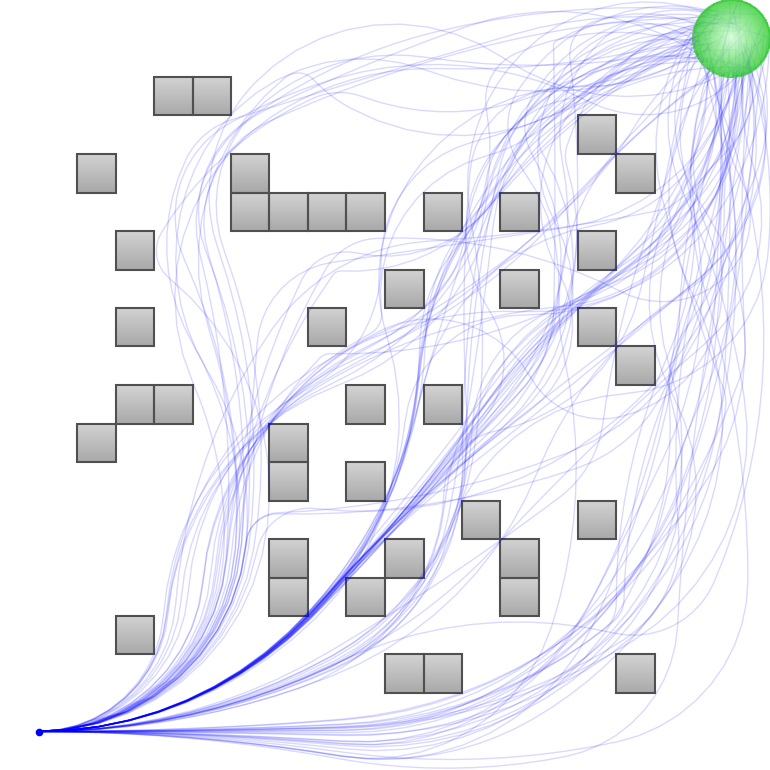
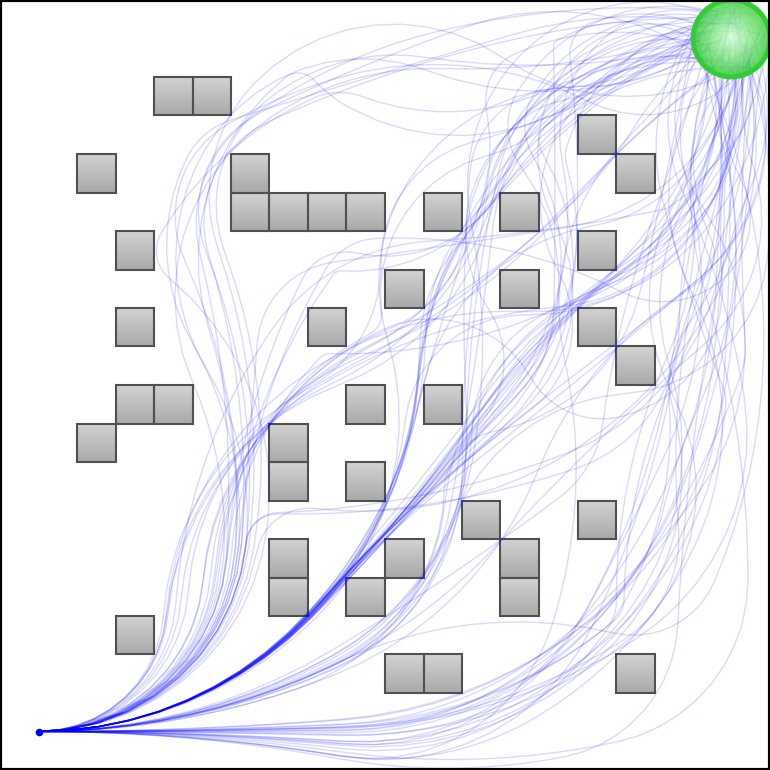
ee vis

diff --git a/view_ee.py b/view_ee.py
@@ -1,0 +1,97 @@
+import plotly.graph_objects as go
+import numpy as np
+
+def get_sphere_mesh(x0, y0, z0, radius=0.05, resolution=20):
+    """Generates vertices and triangles for a sphere at (x0, y0, z0)."""
+    phi = np.linspace(0, np.pi, resolution)
+    theta = np.linspace(0, 2 * np.pi, resolution)
+    phi, theta = np.meshgrid(phi, theta)
+    
+    x = x0 + radius * np.sin(phi) * np.cos(theta)
+    y = y0 + radius * np.sin(phi) * np.sin(theta)
+    z = z0 + radius * np.cos(phi)
+    
+    # Flatten arrays for Mesh3d
+    x, y, z = x.flatten(), y.flatten(), z.flatten()
+    
+    # Generate triangle indices
+    triangles = []
+    for i in range(resolution - 1):
+        for j in range(resolution - 1):
+            v0 = i * resolution + j
+            v1 = v0 + 1
+            v2 = (i + 1) * resolution + j
+            v3 = v2 + 1
+            triangles.append([v0, v1, v2])
+            triangles.append([v1, v3, v2])
+            
+    triangles = np.array(triangles)
+    return x, y, z, triangles[:, 0], triangles[:, 1], triangles[:, 2]
+
+def visualize_trajectory_no_obs(trajectory, output_name="./trajectory.html"):
+    """
+    trajectory: (N, 10) array
+    State order: [ee_x, ee_y, ee_dx, ee_dy, block_x, block_y, block_theta, block_dx, block_dy, block_dtheta]
+    """
+    fig = go.Figure()
+    
+    # 1. Add Floor Plane (Bounding box: -0.3 to 0.7)
+    fig.add_trace(go.Mesh3d(
+        x=[-0.3, 0.7, 0.7, -0.3], 
+        y=[-0.3, -0.3, 0.7, 0.7], 
+        z=[0, 0, 0, 0],
+        color='rgb(230, 230, 230)',
+        opacity=0.5,
+        showlegend=False
+    ))
+
+    # 2. EE (Sphere) Trajectory - Green Line
+    fig.add_trace(go.Scatter3d(
+        x=trajectory[:, 0], y=trajectory[:, 1], z=np.full_like(trajectory[:, 0], 0.05),
+        mode='lines', line=dict(color='limegreen', width=5), name='EE Trajectory'
+    ))
+
+    # 3. Block (Cube) Snapshots - Every 5 frames
+    block_size = 0.05 
+    for i in range(0, len(trajectory), 5):
+        bx, by, btheta = trajectory[i, 4], trajectory[i, 5], trajectory[i, 6]
+        
+        # Rotation Matrix
+        c, s = np.cos(btheta), np.sin(btheta)
+        R = np.array([[c, -s], [s, c]])
+        
+        # Base vertices
+        v = np.array([[-block_size, -block_size], [block_size, -block_size], 
+                      [block_size, block_size], [-block_size, block_size]])
+        
+        # Rotate and translate
+        v_rot = (R @ v.T).T + np.array([bx, by])
+        
+        # Plot cube snapshot
+        fig.add_trace(go.Mesh3d(
+            x=np.concatenate([v_rot[:, 0], v_rot[:, 0]]),
+            y=np.concatenate([v_rot[:, 1], v_rot[:, 1]]),
+            z=[0, 0, 0, 0, 0.1, 0.1, 0.1, 0.1],
+            color='red', opacity=0.15, showlegend=(i==0), name='Block Path'
+        ))
+
+    # 4. Goal Area (Marker at 0.3, 0)
+    gx, gy, gz, gi, gj, gk = get_sphere_mesh(0.3, 0.0, 0.001, radius=0.05)
+    fig.add_trace(go.Mesh3d(x=gx, y=gy, z=gz, i=gi, j=gj, k=gk, color='green', opacity=0.5, name='Goal'))
+
+    # 5. Scene Configuration
+    fig.update_layout(
+        scene=dict(
+            xaxis=dict(range=[-0.3, 0.7]),
+            yaxis=dict(range=[-0.3, 0.7]),
+            zaxis=dict(range=[0, 0.5]),
+            aspectmode='manual',
+            aspectratio=dict(x=1, y=1, z=0.5)
+        ),
+        margin=dict(l=0, r=0, b=0, t=0)
+    )
+    fig.write_html(output_name)
+    print(f"Saved visualization to {output_name}")
+
+trajectory = np.load("mjx_full_trajectory.npy")
+visualize_trajectory_no_obs(trajectory)

diff --git a/benchmarks/unicycle_vel_ao.py b/benchmarks/unicycle_vel_ao.py
@@ -127,24 +127,56 @@ def aorrt_iteration(tree, rng_key, obstacles, sst_params, sim_params, callables,
 
 @partial(jax.jit, static_argnums=(1, 2, 3))
 def jit_while(tree, sst_params, sim_params, callables, obstacles, best_cost, i):
+    # Retrieve MAX_TREE_SIZE from the tree object or pass it as a parameter
+    # Assuming tree.max_size is a property of your KinoTree
+    max_size = MAX_TREE_SIZE
+
     def body_fn(carry):
         tree, key, goal_mask, goal, states, start_idx, iter = carry
         key, subkey = jax.random.split(key)
+
         tree, subkey, goal_mask, goal, states, start_idx = aorrt_iteration(
             tree, subkey, obstacles, sst_params, sim_params, callables, best_cost
         )
+
         return (tree, key, goal_mask, goal, states, start_idx, iter + 1)
 
     def cond_fn(carry):
         tree, key, goal_mask, goal, states, start_idx, iter = carry
-        return (goal == 0) & (tree.tree_size < MAX_TREE_SIZE - sim_params.batch_size)
+        
+        # New condition: Continue if goal NOT reached AND tree size < max_size
+        not_reached = (goal == 0)
+        not_full = (tree.tree_size < max_size)
+        
+        return jnp.logical_and(not_reached, not_full)
 
-    init_carry = (tree, jax.random.PRNGKey(i), jnp.zeros(sim_params.batch_size, dtype=bool),
-                  jnp.array(0, dtype=jnp.int32), jnp.zeros([sim_params.batch_size, sim_params.dims], dtype=jnp.float32),
-                  jnp.array(0, dtype=jnp.int32), jnp.array(0, dtype=jnp.int32))
+    init_carry = (tree, 
+                  jax.random.PRNGKey(i),
+                  jnp.zeros(sim_params.batch_size, dtype=bool),
+                  jnp.array(0, dtype=jnp.int32),
+                  jnp.zeros([sim_params.batch_size, sim_params.dims], dtype=jnp.float32),
+                  jnp.array(0, dtype=jnp.int32),
+                  jnp.array(0, dtype=jnp.int32))
 
     tree, key, goal_mask, goal, states, start_idx, iter = jax.lax.while_loop(cond_fn, body_fn, init_carry)
     return tree, key, goal_mask, goal, states, start_idx, iter, tree.tree_size
+
+def extract_sol(tree, goal_mask, start_idx):
+    if jnp.sum(goal_mask) == 0:
+        print("error: no goal reached")
+        return None, None
+    
+    #print(jnp.sum(goal_mask))
+
+    goal_idxs = jnp.argmax(goal_mask)
+    goal_idx = goal_idxs + start_idx
+    path = []
+    actions = []
+    while goal_idx != -1:
+        path.append(tree.states[goal_idx])
+        actions.append(tree.actions[goal_idx])
+        goal_idx = tree.parents[goal_idx]
+    return jnp.array(path[::-1]), jnp.array(actions[::-1])
 
 MAX_TREE_SIZE = 100000
 if __name__ == "__main__":
@@ -152,10 +184,10 @@ if __name__ == "__main__":
     motion_constraints = MotionConstraints(max_vel=0.4, min_vel=0.0, max_accel=1.5, min_accel=-1.5)
     sim_params = MJXparams(motion_constraints=motion_constraints, physics_constants=PhysicsConstants(),
                            batch_size=batch_size, bounds=Bounds(min_x=0.0, max_x=1.0, min_y=0.0, max_y=1.0, min_z=0.0, max_z=0.0),
-                           dims=3, action_dims=2, dt=0.1, seed=42)
+                           dims=3, action_dims=2, dt=0.025, seed=42)
     sst_params = SSTparams(batch_size=batch_size, δBN=0.04, δs=0.02, decay=0.8,
                            start=Position(x=0.05, y=0.05, z=0.0), goal=Position(x=0.95, y=0.95, z=0.0),
-                           goal_radius=0.05, time_to_evolve=10)
+                           goal_radius=0.05, time_to_evolve=40)
     callables = Callables(prop_fn=propagate.propagate_unicycle, valid_fn=valid_unicycle, sample_fn=sample_unicycle,
                           dist_fn=dist_unicycle, sampact_fn=sample_actions_unicycle, goal_fn=reached_goal_unicycle)
     
@@ -167,8 +199,9 @@ if __name__ == "__main__":
     _ = jit_while(dummy_tree, sst_params, sim_params, callables, obstacles, jnp.inf, 0)
     print("Warm-up complete.")
 
-    N_RUNS, MAX_TIME, COST_THRESHOLD = 100, 3.0, 5.0
+    N_RUNS, MAX_TIME, COST_THRESHOLD = 100, 3.0, 4.5
     run_summaries = []
+    all_solutions = []
 
     for run_id in range(N_RUNS):
         gc.collect()
@@ -193,8 +226,15 @@ if __name__ == "__main__":
             if elapsed >= MAX_TIME or best_cost <= COST_THRESHOLD or tree.tree_size >= MAX_TREE_SIZE - batch_size:
                 run_summaries.append({"cost": best_cost if best_cost != float('inf') else None, "time": elapsed, "nodes": int(tree.tree_size), "iters": ao_iter})
                 print(f"Run {run_id+1}: Cost: {best_cost:.4f} | Time: {elapsed:.2f}s | Nodes: {tree.tree_size}")
+                path, actions = extract_sol(tree, goal_mask, start_idx)
+                all_solutions.append({
+                    'path': np.array(path),       # The sparse nodes in the tree
+                    'actions': np.array(actions), # The constant actions applied between nodes
+                    'start': np.array([sst_params.start.x, sst_params.start.y, 0.0]),
+                    'goal': np.array([sst_params.goal.x, sst_params.goal.y])
+                })
                 break
-
+    np.savez('benchmarks/ao_uni_results.npz', solutions=all_solutions)
     # Stats Calculation
     valid_costs = [s['cost'] for s in run_summaries if s['cost'] is not None]
     if valid_costs:

diff --git a/benchmarks/view_uni_sol.py b/benchmarks/view_uni_sol.py
@@ -50,10 +50,8 @@ def plot_all_results(data_path, obstacles):
     
     fig, ax = plt.subplots(figsize=(8, 8))
     
-    # Obstacle Gradient Setup
+    # 1. Plot Obstacles
     obs_cmap = LinearSegmentedColormap.from_list("grey_grad", ["#d3d3d3", "#a9a9a9"])
-    
-    # Plot Obstacles
     for obs in obstacles:
         x1, y1, x2, y2 = obs[0], obs[1], obs[2], obs[3]
         gradient = np.linspace(0, 1, 100).reshape(-1, 1)
@@ -61,7 +59,7 @@ def plot_all_results(data_path, obstacles):
         rect = patches.Rectangle((x1, y1), x2-x1, y2-y1, linewidth=1.5, edgecolor='#505050', facecolor='none', zorder=2)
         ax.add_patch(rect)
 
-    # 1. Goal Gradient Setup (Green to White radial gradient)
+    # 2. Goal Region (Radial Gradient)
     radius = 0.05
     res = 50
     x_grid = np.linspace(-radius, radius, res)
@@ -69,56 +67,40 @@ def plot_all_results(data_path, obstacles):
     X, Y = np.meshgrid(x_grid, y_grid)
     R = np.sqrt(X**2 + Y**2)
     
-    # Create radial alpha/color mask: 1.0 at center, 0.0 at edge
-    goal_gradient = np.clip(1.0 - (R / radius), 0, 1)
-    
-    # 1. Goal Gradient Setup
-    radius = 0.05
-    res = 50
-    x_grid = np.linspace(-radius, radius, res)
-    y_grid = np.linspace(-radius, radius, res)
-    X, Y = np.meshgrid(x_grid, y_grid)
-    R = np.sqrt(X**2 + Y**2)
-    
-    # Create the gradient (1.0 at center, 0.0 at edge)
-    # 1. Goal Gradient Setup (Reverse: Light center, Darker edge)
-    radius = 0.05
-    res = 50
-    x_grid = np.linspace(-radius, radius, res)
-    y_grid = np.linspace(-radius, radius, res)
-    X, Y = np.meshgrid(x_grid, y_grid)
-    R = np.sqrt(X**2 + Y**2)
-    
-    # Inverted gradient: 0.0 at center, 1.0 at edge
+    # Gradient: Light at center, darker at edge
     goal_gradient = np.clip(R / radius, 0, 1)
-    
-    # Create mask for circular shape
     mask = R <= radius
     masked_gradient = np.ma.masked_where(~mask, goal_gradient)
     
-    # 2. Add the Goal Gradient (using a custom cmap for Limegreen)
-    # This maps 0.0 (center) to light lime, and 1.0 (edge) to dark lime
     custom_cmap = LinearSegmentedColormap.from_list("green_grad", ["#CCFFCC", "#32CD32"])
     
+    # Fill (zorder 4)
     ax.imshow(masked_gradient, extent=[sst_params.goal.x-radius, sst_params.goal.x+radius, 
                                        sst_params.goal.y-radius, sst_params.goal.y+radius], 
               cmap=custom_cmap, alpha=0.8, zorder=4)
     
-    # 3. Add the Outline (Consistent opacity 0.8)
+    # Outline (zorder 10): Ensure it is drawn on top and is fully opaque
     circle_outline = plt.Circle((sst_params.goal.x, sst_params.goal.y), radius, 
-                                color='#32CD32', fill=False, linewidth=1.5, 
-                                alpha=0.8, zorder=5)
+                                color='#32CD32', fill=False, linewidth=3.5, 
+                                alpha=1.0, zorder=10)
     ax.add_patch(circle_outline)
 
-    # 3. Plot Paths
+    # 3. Plot Paths and Start
     for sol in solutions:
         full_traj = rollout_full_trajectory(sol['path'][0], sol['actions'], sst_params, sim_params, callables.prop_fn)
         ax.plot(full_traj[:, 0], full_traj[:, 1], color='blue', alpha=0.15, linewidth=1, zorder=3)
         
-    # Start Marker
-    ax.scatter(sst_params.start.x, sst_params.start.y, color='blue', s=20, label='Start', zorder=5)
+    ax.scatter(sst_params.start.x, sst_params.start.y, color='blue', s=20, zorder=5)
+    min_x, max_x = sim_params.bounds.min_x, sim_params.bounds.max_x
+    min_y, max_y = sim_params.bounds.min_y, sim_params.bounds.max_y
+    
+    boundary = patches.Rectangle(
+        (min_x, min_y), max_x - min_x, max_y - min_y,
+        linewidth=3.0, edgecolor='black', facecolor='none', zorder=10
+    )
+    ax.add_patch(boundary)
 
-    # Clean axes
+    # 4. Clean axes
     ax.set_xticks([])
     ax.set_yticks([])
     for spine in ax.spines.values(): spine.set_visible(False)
@@ -129,7 +111,7 @@ def plot_all_results(data_path, obstacles):
     
     plt.tight_layout()
     plt.savefig('benchmarks/uni_solutions.png', bbox_inches='tight', pad_inches=0)
-    print("Saved visualization.")
+    print("Saved visualization with bold goal outline.")
 
 # Run plotting
 

diff --git a/vine/rrt_test.py b/vine/rrt_test.py
@@ -426,7 +426,7 @@ def visualize_tree(tree, obstacles, sst_params, sim_params, iteration):
     ax.set_yticks([])
     ax.set_aspect('equal')
     
-    plt.savefig(f"vine/results/rrt_leaf_iter_{iteration:02d}.png", dpi=300, bbox_inches='tight')
+    plt.savefig(f"vine/results/rrt_long{iteration:02d}.png", dpi=300, bbox_inches='tight')
     plt.close(fig)
 from flax import struct
 import jax.numpy as jnp
@@ -457,10 +457,10 @@ class SSTparams:
     start: Position
     goal: Position
     goal_radius: float
-    time_to_evolve: int = 50
+    time_to_evolve: int = 100
 
 if __name__ == "__main__":
-    cfg = load_box_config('vine/envs/env_live.txt')
+    cfg = load_box_config('vine/envs/env_long.txt')
 
     batch_size = 128
     A = 2
@@ -518,7 +518,7 @@ if __name__ == "__main__":
     rng_key = jax.random.PRNGKey(42)
     
     print(f"Starting 10 iterations of RRT...")
-    for i in range(15):
+    for i in range(25):
         # Run a single batch iteration
         tree, rng_key, goal_mask, goal_count, states_end, start_idx = rrt_iteration(
             tree, rng_key, obstacles, sst_params, sim_params, callables

diff --git a/vine/rrt.py b/vine/rrt.py
@@ -396,10 +396,10 @@ class SSTparams:
     start: Position
     goal: Position
     goal_radius: float
-    time_to_evolve: int = 50
+    time_to_evolve: int = 100
 
 if __name__ == "__main__":
-    cfg = load_box_config('vine/envs/env_live.txt')
+    cfg = load_box_config('vine/envs/env_long.txt')
 
     batch_size = 128
     A = 2